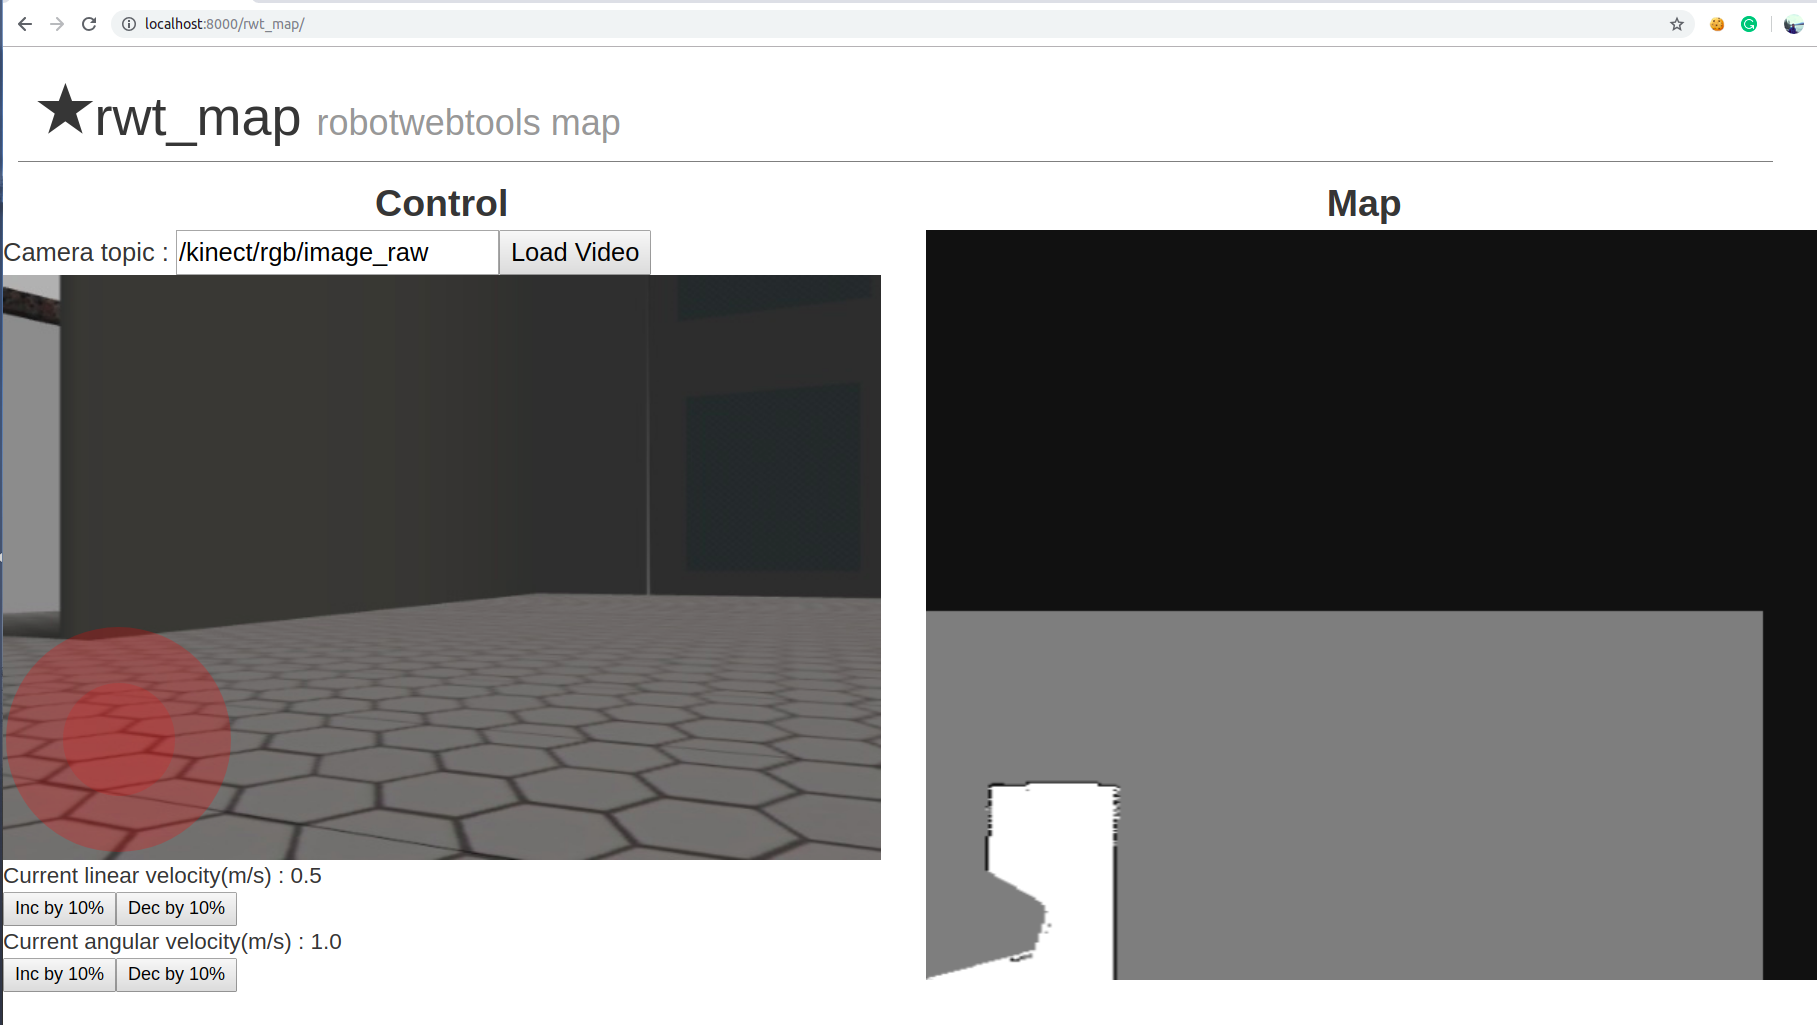
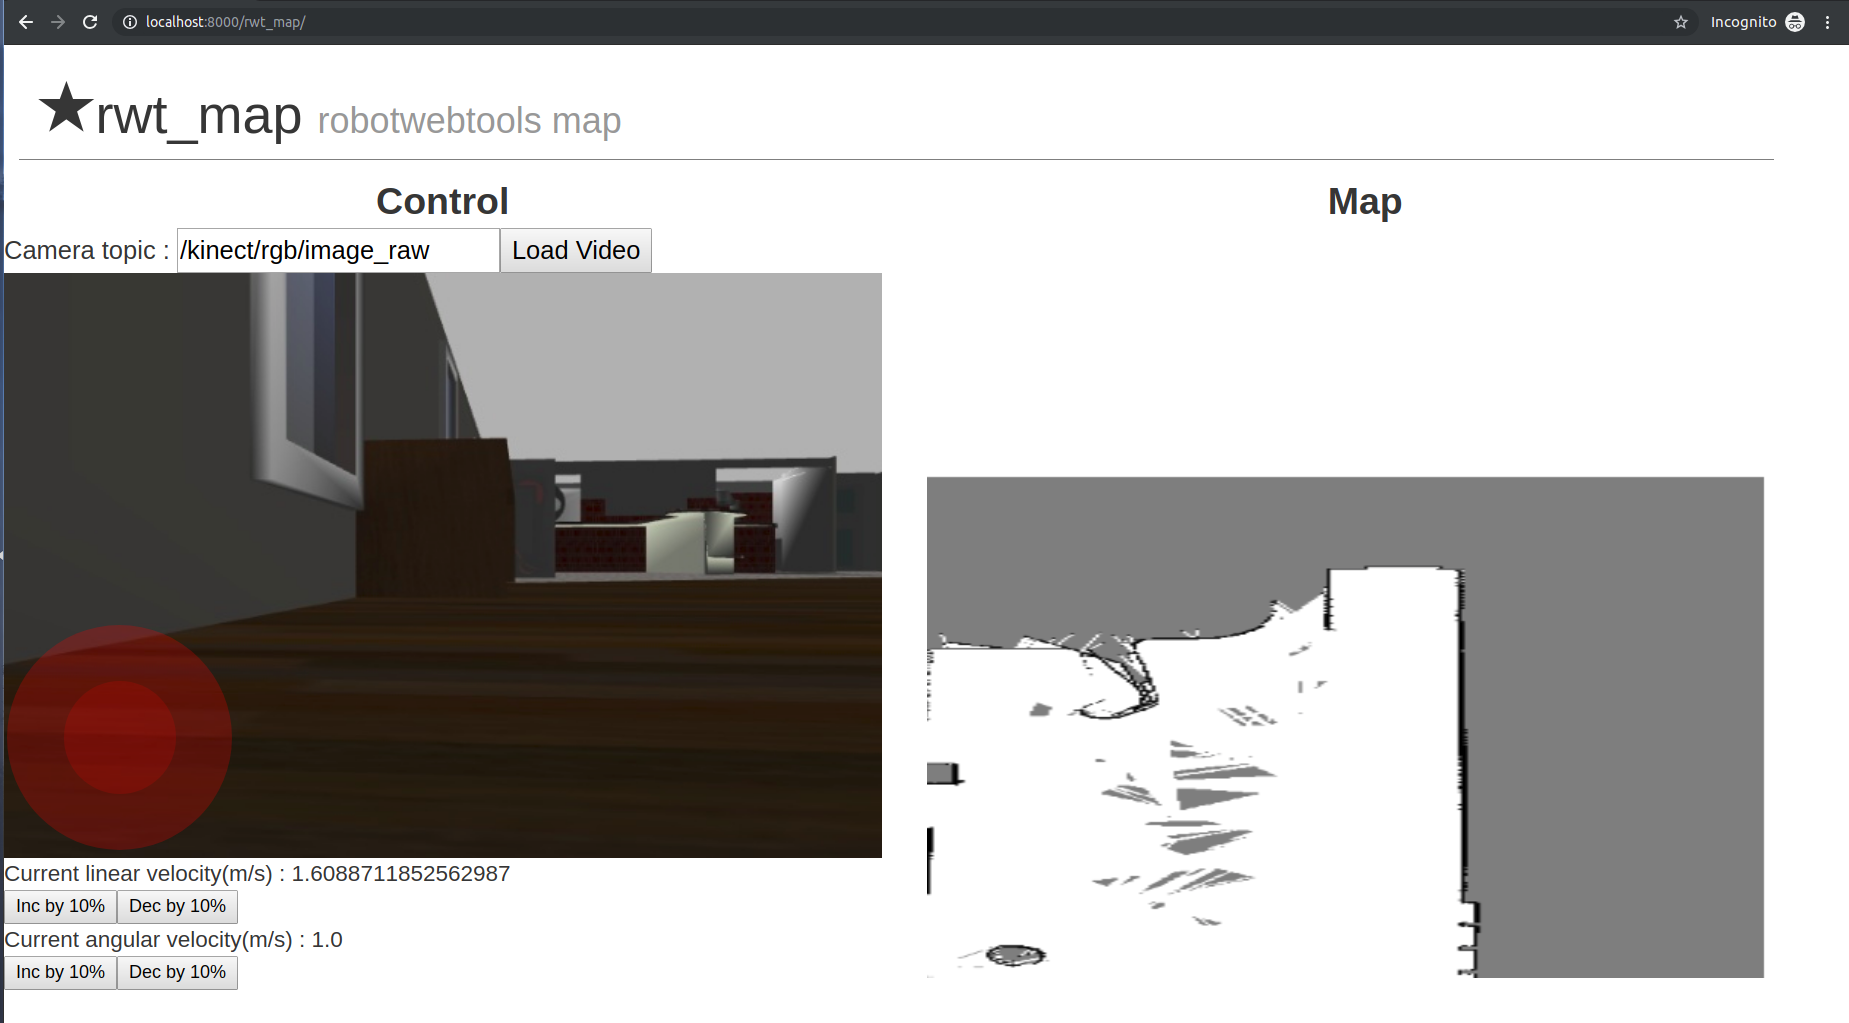
Background changed rwt_map

diff --git a/rwt_map/www/3rdparty/ros/js/ros2d.js b/rwt_map/www/3rdparty/ros/js/ros2d.js
@@ -1065,7 +1065,7 @@ ROS2D.Viewer = function(options) {
   var divID = options.divID;
   this.width = options.width;
   this.height = options.height;
-  var background = options.background || '#111111';
+  var background = options.background || '#FFFFFF';
 
   // create the canvas to render to
   var canvas = document.createElement('canvas');
